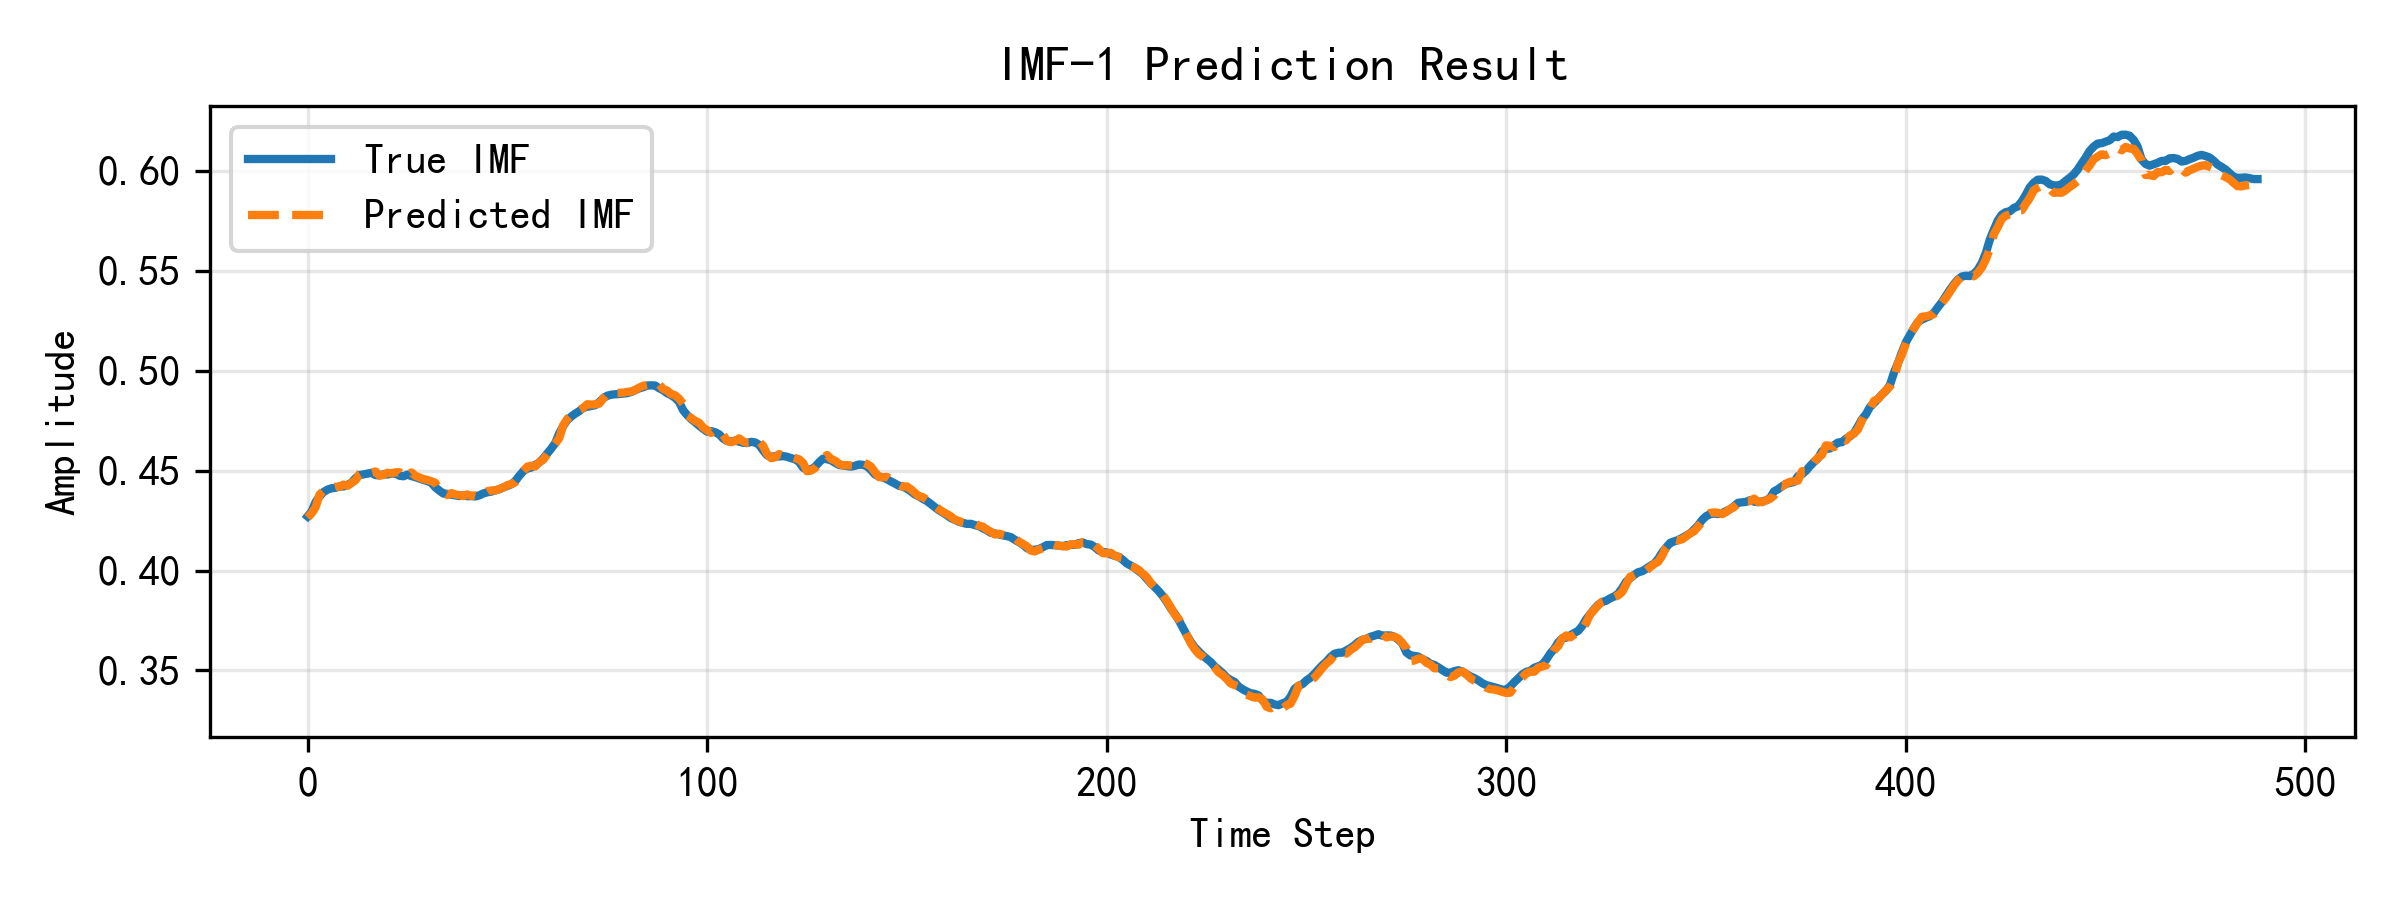
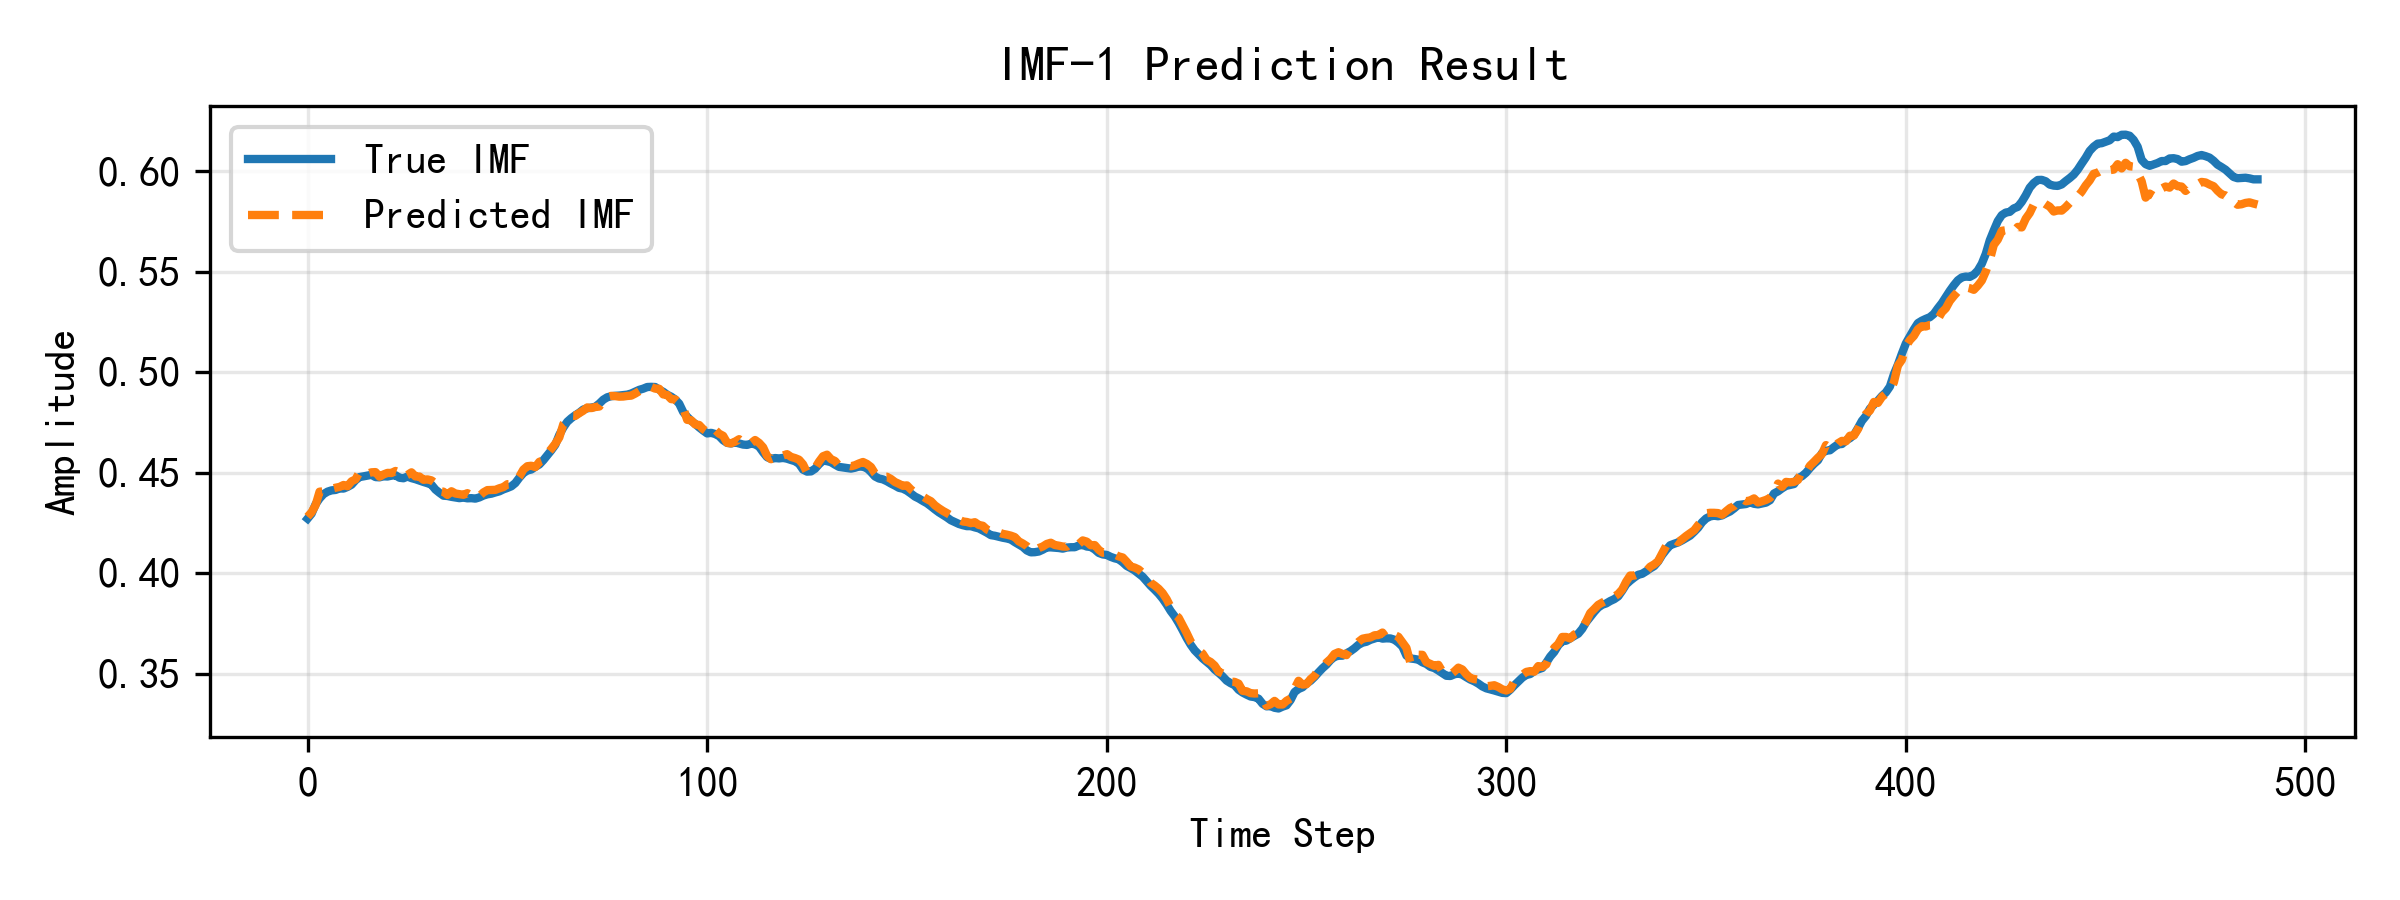
支持rnn模型

diff --git a/main.py b/main.py
@@ -3,7 +3,7 @@ import numpy as np
 from sklearn.preprocessing import MinMaxScaler
 import torch
 import torch.nn as nn
-from cnn import CNN, CNN_LSTM, CNN_BiLSTM, TCN, LSTM
+from cnn import CNN, CNN_LSTM, RNN, CNN_BiLSTM, TCN, LSTM
 import matplotlib.pyplot as plt
 from config import Config
 import matplotlib.pyplot as plt
@@ -52,6 +52,9 @@ def select_model(imf, window):
         if Config.single_model == "cnn":
             print(f"选择单个 CNN 模型")
             return CNN(window)
+        elif Config.single_model == "rnn":
+            print(f"选择单个 RNN 模型")
+            return RNN(window)  
         elif Config.single_model == "lstm":
             print(f"选择单个 LSTM 模型")
             return LSTM(window)
@@ -280,6 +283,10 @@ def no_cmd_pipeline(file_path, select_model="cnn"):
 
     if(select_model == "cnn"):
         model = CNN(window)
+    elif(select_model == "tcn"):
+        model = TCN(window)
+    elif (select_model == "rnn"):
+        model = RNN(window)
     elif(select_model == "lstm"):
         model = LSTM(window)
     elif(select_model == "cnn_lstm"):

diff --git a/my_vmd.py b/my_vmd.py
@@ -10,6 +10,8 @@ def vmd_decompose(
     DC=Config.DC,
     init=Config.init,
     tol=Config.tol
+    ,
+    fs=1.0  # sampling frequency in samples per unit time (default: 1.0)
 ):
     """
     VMD decomposition with explicit residual IMF.
@@ -64,5 +66,24 @@ def vmd_decompose(
     else:
         print("Not adding residual IMF.")
         imfs_with_residual = aligned_imfs
+
+    # ---- Compute and print center frequency for each IMF ----
+    # Use power spectral centroid: sum(f * P(f)) / sum(P(f)) where P is power
+    center_freqs = []
+    N = imfs_with_residual.shape[1]
+    # frequency bins for rfft
+    freqs = np.fft.rfftfreq(N, d=1.0 / fs)
+
+    for idx, imf in enumerate(imfs_with_residual):
+        # compute one-sided FFT and power
+        X = np.fft.rfft(imf)
+        P = np.abs(X) ** 2
+        total_power = P.sum()
+        if total_power <= 0:
+            cf = 0.0
+        else:
+            cf = (freqs * P).sum() / total_power
+        center_freqs.append(cf)
+        print(f"IMF {idx}: center frequency = {cf:.6f} (Hz)")
 
     return imfs_with_residual

diff --git a/cnn.py b/cnn.py
@@ -13,6 +13,24 @@ class CNN(nn.Module):
         x = torch.relu(self.conv(x))
         x = x.view(x.size(0), -1)
         return self.fc(x)
+    
+class RNN(nn.Module):
+    def __init__(self, window, n_features=1, hidden_size=32, fc_hidden=16):
+        super().__init__()
+        # input shape expected: (batch, seq_len) or (batch, seq_len, n_features)
+        self.rnn = nn.RNN(input_size=n_features, hidden_size=hidden_size, batch_first=True, nonlinearity='tanh')
+        self.fc1 = nn.Linear(hidden_size, fc_hidden)
+        self.fc2 = nn.Linear(fc_hidden, 1)
+        self.relu = nn.ReLU()
+
+    def forward(self, x):
+        # ensure features dimension exists
+        if x.dim() == 2:
+            x = x.unsqueeze(-1)  # (batch, seq_len, 1)
+        _, h = self.rnn(x)
+        h_last = h[-1]  # (batch, hidden_size)
+        x = self.relu(self.fc1(h_last))
+        return self.fc2(x)
 
 class LSTM(nn.Module):
     def __init__(self, window):

diff --git a/config.py b/config.py
@@ -11,7 +11,7 @@ class Config:
     hasResidual=False  # 是否添加残差分量作为最后一个IMF
     vmd_enable=True  # 是否启用VMD参数调优
     vmd_single_model = True # 是否只使用单个模型进行VMD参数调优
-    single_model = "lstm"  # 使用单个模型预测（需要enable=False生效），可选值: "cnn", "lstm", "cnn_lstm", "cnn_bilstm", "tcn"
+    single_model = "rnn"  # 使用单个模型预测（需要enable=False生效），可选值: "cnn", "lstm", "cnn_lstm", "cnn_bilstm", "tcn", "rnn"
     
     # 数据集配置
     file_name = "河南数据集.xlsx"
